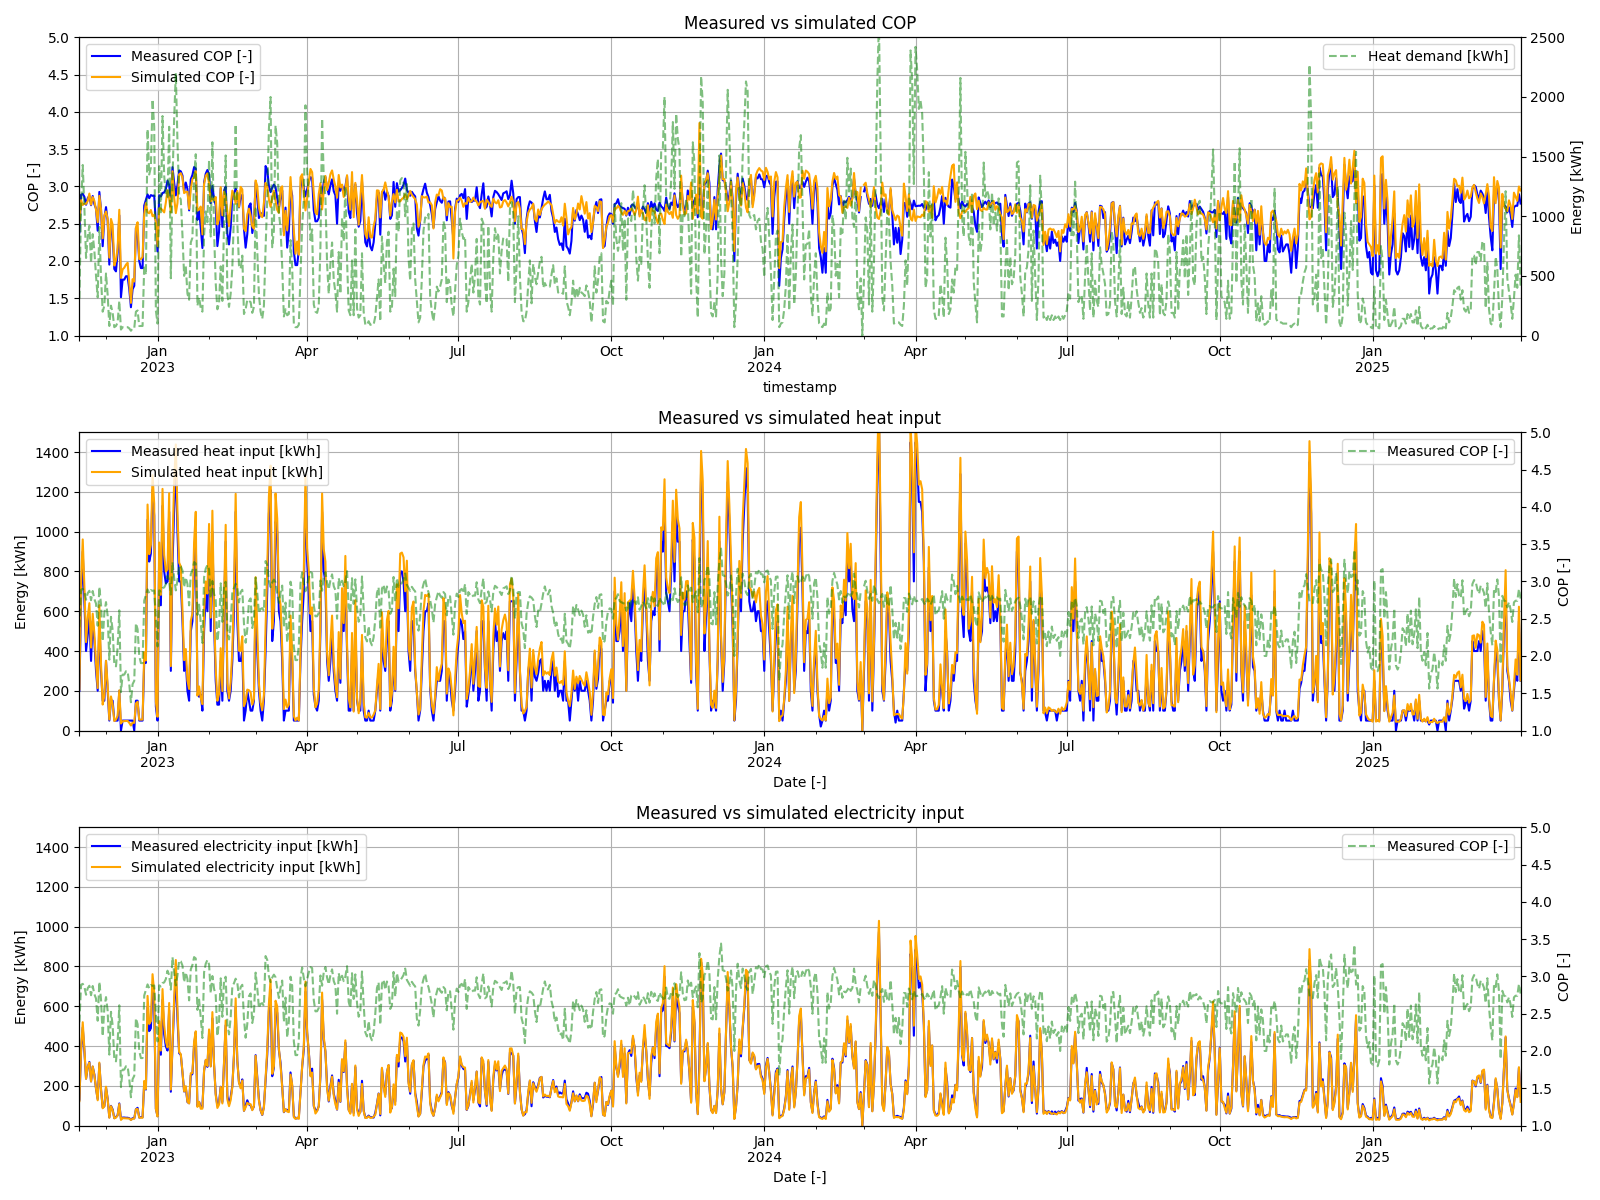
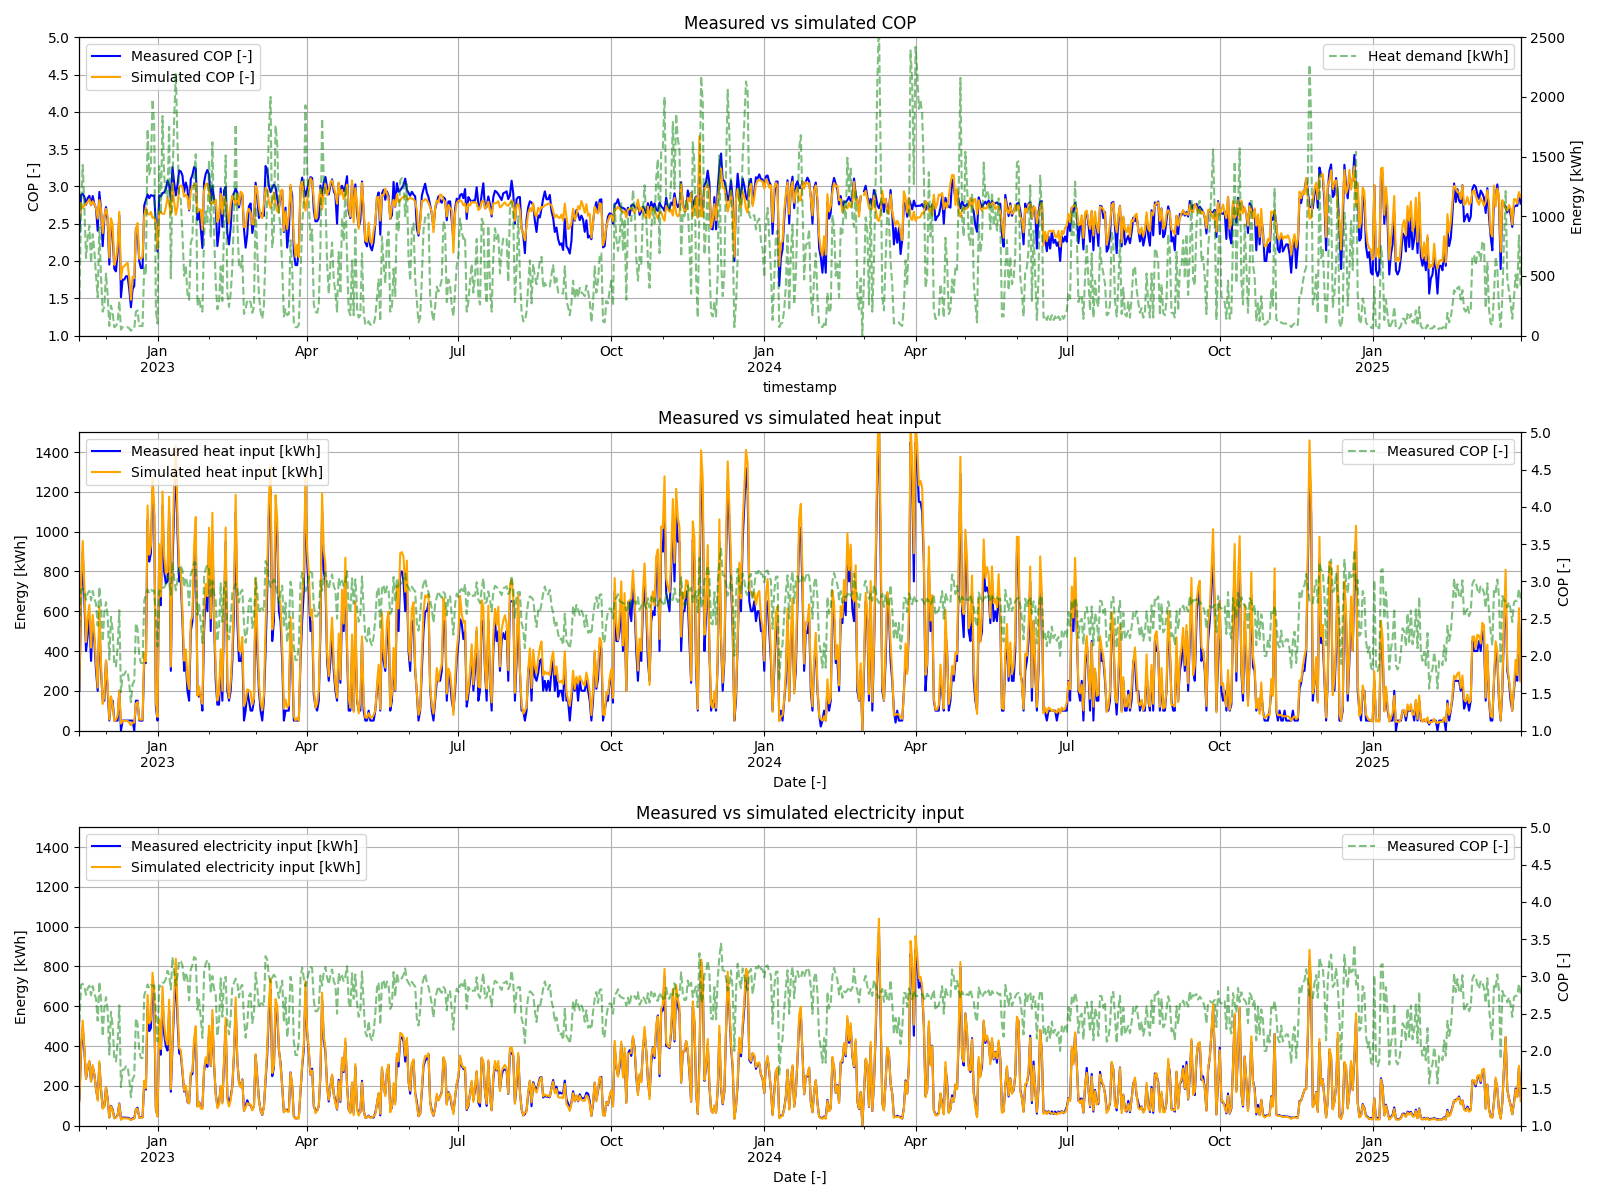
Update case 1 of heat pump validation for new model type implementation in ReSiE and different COP data.

diff --git a/docs/resie_validation_components.md b/docs/resie_validation_components.md
@@ -194,7 +194,7 @@ These manual corrections necessarily alter the results of the validation and sho
 
 ### Case 1: District heating / electrolyser cooling
 
-In the district project CITATION NEEDED, an electrolyser plant produces hydrogen, oxygen and usable heat. While the heat output of the electrolyser stacks is utilised directly in the heating and DHW networks, a significant amount of waste heat is also produced from cooling the power electronics, gas compressors and other equipment. A water-water inverter-driven 210 kW heat pump with heat medium R513A is used to make this waste heat, with a typical temperature range from 9 to 14 °C as evaporator input temperature, available for the heating and DHW networks with a typical temperature range from 45 to 60 °C as condenser output temperature.
+In the district project *Klimaquartier Neue Weststadt*[^HeibleMichely2023], an electrolyser plant produces hydrogen, oxygen and usable heat. While the heat output of the electrolyser stacks is utilised directly in the heating and DHW networks, a significant amount of waste heat is also produced from cooling the power electronics, gas compressors and other equipment. A water-water inverter-driven 210 kW heat pump with heat medium R513A is used to make this waste heat, with a typical temperature range from 9 to 14 °C as evaporator inlet temperature, available for the heating and DHW networks with a typical temperature range from 45 to 60 °C as condenser outlet temperature.
 
 The measurements are from the time period from 2022-11-15 to 2025-03-31. Some corrections were required for meters temporarily reporting incorrect values and missing data, which is typical for such measurements and has a low occurence rate of 0.23 %. Of note is that measurements of the entirety of the day of 2023-11-23 are missing, which have been corrected as constant usage to linearly interpolate between the preceeding and following known meter values. Because the simulation does not support leap days, the day of 2024-02-29 has been removed prior to creating the profiles used in the simulation.
 
@@ -203,12 +203,12 @@ The measurements are from the time period from 2022-11-15 to 2025-03-31. Some co
 | Raw measurements | 188.86 | 321.59 | 527.63 | - |
 | Without leap day | 188.56 | 321.04 | 526.74 | - |
 | Adjusted heat input | 188.56 | 338.18 | 526.74 | - |
-| Simulated | 190.31 | 361.25 | 526.72 | 24.838 |
-| Difference | +0.93 % | +6.8 % | -0.004 % | - |
+| Simulated | 192.08 | 359.46 | 526.72 | 24.820 |
+| Difference | +1.87 % | +6.29 % | -0.004 % | - |
 
 The table above show the values summed up over the entire time period. Of note is that in the measurements the electricity and heat inputs do not sum up to the produced heat output, with a difference of -17.14 MWh or -5.33 %. Due to losses occuring within the heat pump, it would be expected that the sum of the inputs is slightly larger than the output, but the opposite is the case here. It is generally the case that meters measuring heat transport are inherently inaccurate. Given that both the heat input and heat output meters must be assumed inaccurate, one possible explanation is that the heat input is undercounting and the heat output is overcounting. As the heat output values are used as the exact demand values for the simulation and the electricity input meter can assumed to be very accurate, the unknown margin of the energy balance equation falls entirely on the heat input. For the comparison between measurement and simulation data of the overall sums, the missing margin of 17.14 MWh has beed added to the heat input to serve as a lower bound of the unknown real value.
 
-For the simulation model of the heat pump, a COP matrix from CITATION NEEDED has been used with a scalar multiplier of 0.65. This scaling factor is the primary parameter adjusted by manual analysis to find a fit. Other parameters were mostly informed by available manufacturer information. Of note is a constant power loss of 500 W, which was observed in the measurements during periods of no operation. The full set of parameters can be found in the accompanying file `resie_input.json` for this case. With the determined fit, the electricity input sum differs by +0.93 % and the heat input sum by +6.8 % compared to the adjusted heat input.
+The COP data for the real heat pump is not known. For the simulation model data from a comparable water-water heat pump has been taken from [an online tool for manufacturer data](https://www.stiebel-eltron.com/toolbox/waermepumpe/) and multiplied with a scaling factor of `0.65`. This scaling factor is the primary parameter adjusted by manual analysis to find a fit. Other parameters were mostly informed by available manufacturer information[^Combitherm]. Of note is a constant power loss of 500 W, which was observed in the measurements during periods of no operation. The full set of parameters can be found in the accompanying file `resie_input.json` for this case. With the determined fit, the electricity input sum differs by +1.87 % and the heat input sum by +6.29 % compared to the adjusted heat input.
 
 ![Validation of heat pump model, case 1: COP analysis of measurements vs simulation data](fig/validation_heat_pump/case_1_cop_analysis.png)
 
@@ -220,7 +220,7 @@ This figure compares measurement against simulation data based on values aggrega
 
 ![Validation of heat pump model, case 1: Measurements vs simulation data aggregated to hourly values for one month](fig/validation_heat_pump/case_1_hourly_data_one_month.png)
 
-In this figure the same comparisons as above are repeated for values aggregated to one hour for a period of about one month from 2013-11-06 to 2013-12-07. This time range was chosen because it contains both periods of high and low production as well the day of 2023-11-23, which was interpolated due to missing measurements and is clearly visible in the analysis. The simulated electricity input again shows a good match with measurements. In contrast, the measured heat input displays heavy pulsing, probably due to the discrete nature of meters. The simulated COP and heat input show a more averaged behaviour compared to the measurements.
+In this figure the same comparisons as above are repeated for values aggregated to one hour for a period of about one month from 2013-11-06 to 2013-12-07. This time range was chosen because it contains both periods of high and low production as well the day of 2023-11-23, which was interpolated due to missing measurements and is clearly visible in the analysis. The simulated electricity input again shows a good match with measurements. In contrast, the measured heat input displays heavy pulsing, probably due to the discrete measuring of meters. The simulated COP and heat input show a more averaged behaviour compared to the measurements.
 
 ### Case 2: Multi-family home heating and DHW
 
@@ -238,7 +238,7 @@ It is assumed the documentation describes the COP for the steady-state operation
 
 The documentation also describes the power curve for the thermal output power of the heat pump depending on air and demand temperatures. The influence of the demand temperature is negligible, while the source temperature is the main driver of the power curve. While the curve in the documentation shows slight non-linear behaviour, given the uncertainties it can be reasonably linearly approximated as \(\dot{Q}_{th,out} = \dot{Q}_{th,max} \cdot (0.0105769 \cdot T_{source,in} + 0.576923) \). The documentation lists \(\dot{Q}_{th,max}\) as 26 kW, however using this in the simulation leads to a significant fraction of unmet demand. This is likely caused by the measurements being based on meter values with an minimum accuracy of 1.0 kWh. Therefore the demand values in the measurements can differ up to 1.0 kWh from the actual demand during a timestep.
 
-Furthermore, the temperature values and thus the output power of the heat pump vary over a timestep and are not as constant as the simulation assumes. In addition the source temperature values were taken from a weather station, not a temperature sensor at the evaporator inlet, further increasing the inaccuracy of the calculate thermal output power. To compensate for both effects \(\dot{Q}_{th,max}\) has been assumed as 32 kW for the simulation. This results in an unmet demand of 740 kWh (0.28 %) over the entire timeframe.
+Furthermore, the temperature values and thus the output power of the heat pump vary over a timestep and are not as constant as the simulation assumes. In addition the source temperature values were taken from a weather station, not a temperature sensor at the evaporator inlet, further increasing the inaccuracy of the calculated thermal output power. To compensate for both effects \(\dot{Q}_{th,max}\) has been assumed as 32 kW for the simulation. This results in an unmet demand of 740 kWh (0.28 %) over the entire timeframe.
 
 Because the heat pump is modelled as on-off control, based on the documentation, the simulation requires choosing a PLF function to model the cycling losses incurred by the heat pump repeatedly switching on and off when the demand is less than the full available power. This is not a real technical effect and is a model assumption, therefore there is no data in the documentation to serve as a basis. An attempt to determine a PLF function from measurements was done and is described in the following. In the results section for case 2 the limitations of this approach are described.
 
@@ -283,5 +283,9 @@ The figure above shows measurements vs. simulation data for the COP and electric
 The overestimation in winter and underestimation in summer can be seen very clearly in the hourly data. In winter the heat pump is running constantly at a high PLR, while in summer it is running intermittently at a low to medium PLR. These are two scenarios where the PLF function ought to increase the accuracy of the model, yet this is not the case.
 
 When the simulation is performed with a COP scaling factor of 1.0 and a constant PLF function of 1.0, the simulation data matches very closely in winter and is underestimating in summer. This would suggest that the real heat pump does not suffer decreased efficiency in part load operation, yet the analysis done in the corresponding section above strongly suggests that the PLF function should be modelled as such. The reasons for this discrepancy remain unclear and could be a combination of effects caused by uncertainties and inaccuracies in the measurements or it could indicate a weakness in the heat pump model concerning the PLF function. Further work in this regard is welcome.
+
+[^HeibleMichely2023]: Holger Heible and Eva Michely: 11 Developing Sustainable City Districts: A Practitioner’s Report on Klimaquartier Neue Weststadt, Innovations and challenges of the energy transition in smart city districts, P. 161, 2023
+
+[^Combitherm]: Combitherm: Betriebsanleitung Kälteanlage KWW 2/6563 R513A, Hersteller-Dokumentation Combitherm, 2021
 
 [^StiebelEltronWPL]: STIEBEL ELTRON: Bedienung und Installation für Luft-Wasser-Wärmepumpen WPL 13-23 E/cool, Hersteller-Dokumentation STIEBEL ELTRON, Stand 9147.
